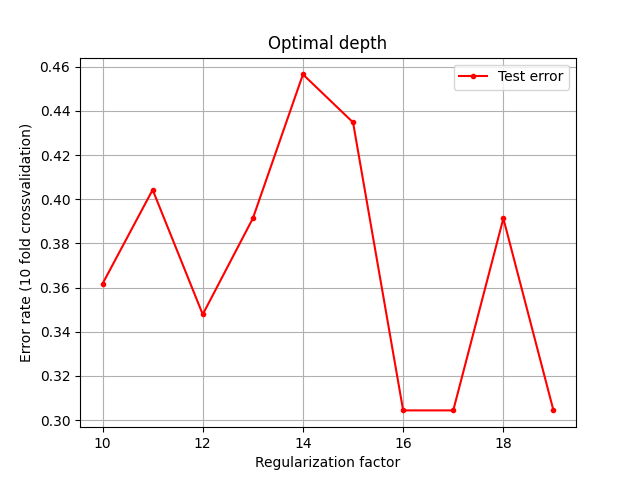
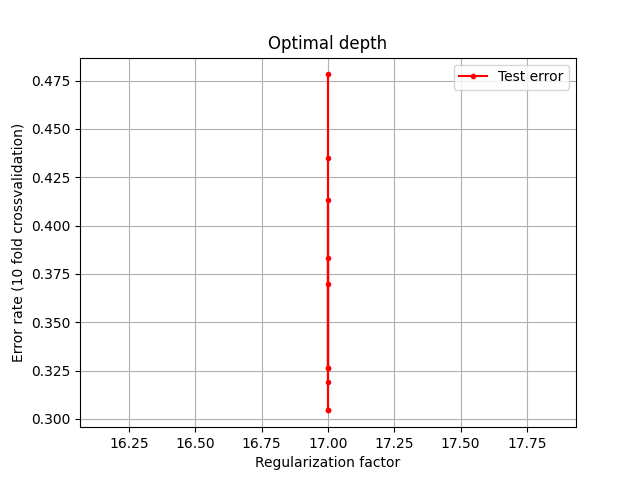
classification

diff --git a/Projekt 2/Accuracy.py b/Projekt 2/Accuracy.py
@@ -1,22 +1,6 @@
 ## Accuracy - MCnemerar ## 
-from outerfolder import * 
+from logreg_fold import * 
 from toolbox_02450.statistics import *
-
-# Compute the Jeffrey interval 
-alpha = 0.05
-
-# Logistic regression 
-[thetahatA, CIA] = jeffrey_interval(y_true_log,yhat_log[:,0],alpha=alpha)
-
-# Tree classifier  
-[thetahatB, CIB] = jeffrey_interval(y_true_tree,yhat_tree[:,0],alpha=alpha)
-
-# Baseline
-[thetahatC, CIC] = jeffrey_interval(y_true_base,yhat_base[:,0],alpha=alpha)
-
-print("Theta point estimate A: ", thetahatA, " CI: ", CIA)
-print("Theta point estimate B: ", thetahatB, " CI: ", CIB)
-print("Theta point estimate C: ", thetahatC, " CI: ", CIC)
 
 # Compute the Jeffreys interval
 alpha = 0.05

diff --git a/Projekt 2/classification_done.py b/Projekt 2/classification_done.py
@@ -258,7 +258,7 @@ plt.grid()
 plt.xlabel('Regularization factor')
 plt.ylabel('Error rate (10 fold crossvalidation)')
 plt.legend(['Test error'])
-plt.savefig('logreg_fold.png')
+#plt.savefig('logreg_fold.png')
 plt.show()
 
 # Plot tree
@@ -269,7 +269,7 @@ plt.xlabel('Regularization factor')
 plt.ylabel('Error rate (10 fold crossvalidation)')
 plt.legend(['Test error'])
 plt.grid()
-plt.savefig('tree_fold.png')
+#plt.savefig('tree_fold.png')
 plt.show()
 
 print('Accuracy_log:{0}'.format(np.count_nonzero(z_log)/np.size(z_log)))

diff --git a/Projekt 2/Logistic_regression._reguralizedpy.py b/Projekt 2/Logistic_regression._reguralizedpy.py
@@ -28,7 +28,7 @@ X_test = (X_test - mu) / sigma
 # print(X_test) 
 
 # Fit regularized logistic regression model to training data to predict a subject. 
-lambda1 = 2.4770763559917088e-05
+lambda1 = 0.21544346900318823
 
 
 mdl = LogisticRegression(penalty='l2', C=1/lambda1 )
@@ -54,8 +54,6 @@ print('The test error:',test_error_rate)
 # u.append(np.min(a1[2:5]))
 # u.append(np.min(a1[6:9]))
 #print(u)
-import numpy as np 
-np.logspace(-5,1.5,10)
 # c = np.ones([10])
 # print(c)
 # d = np.arange(10,21,dtype=int)
